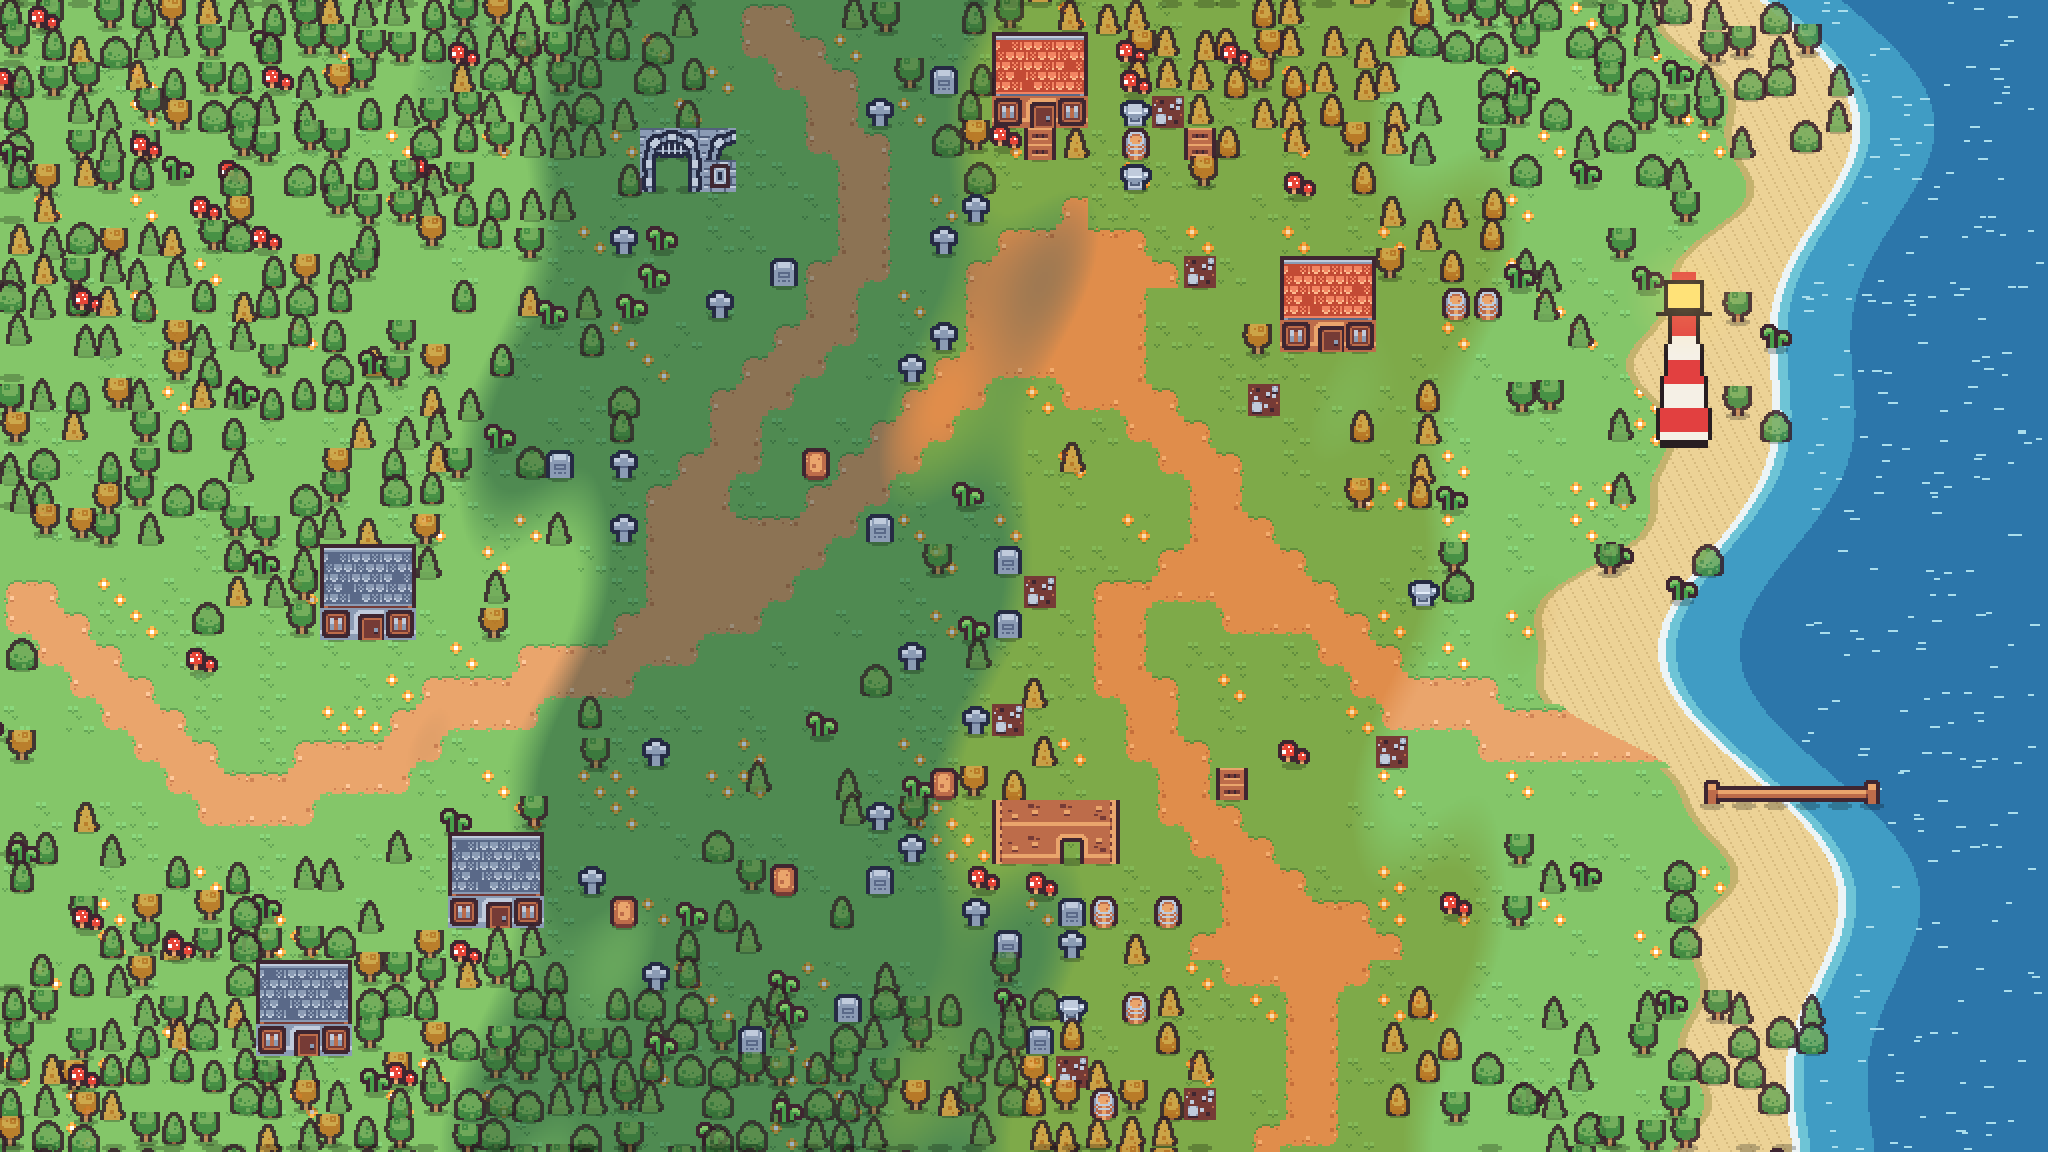
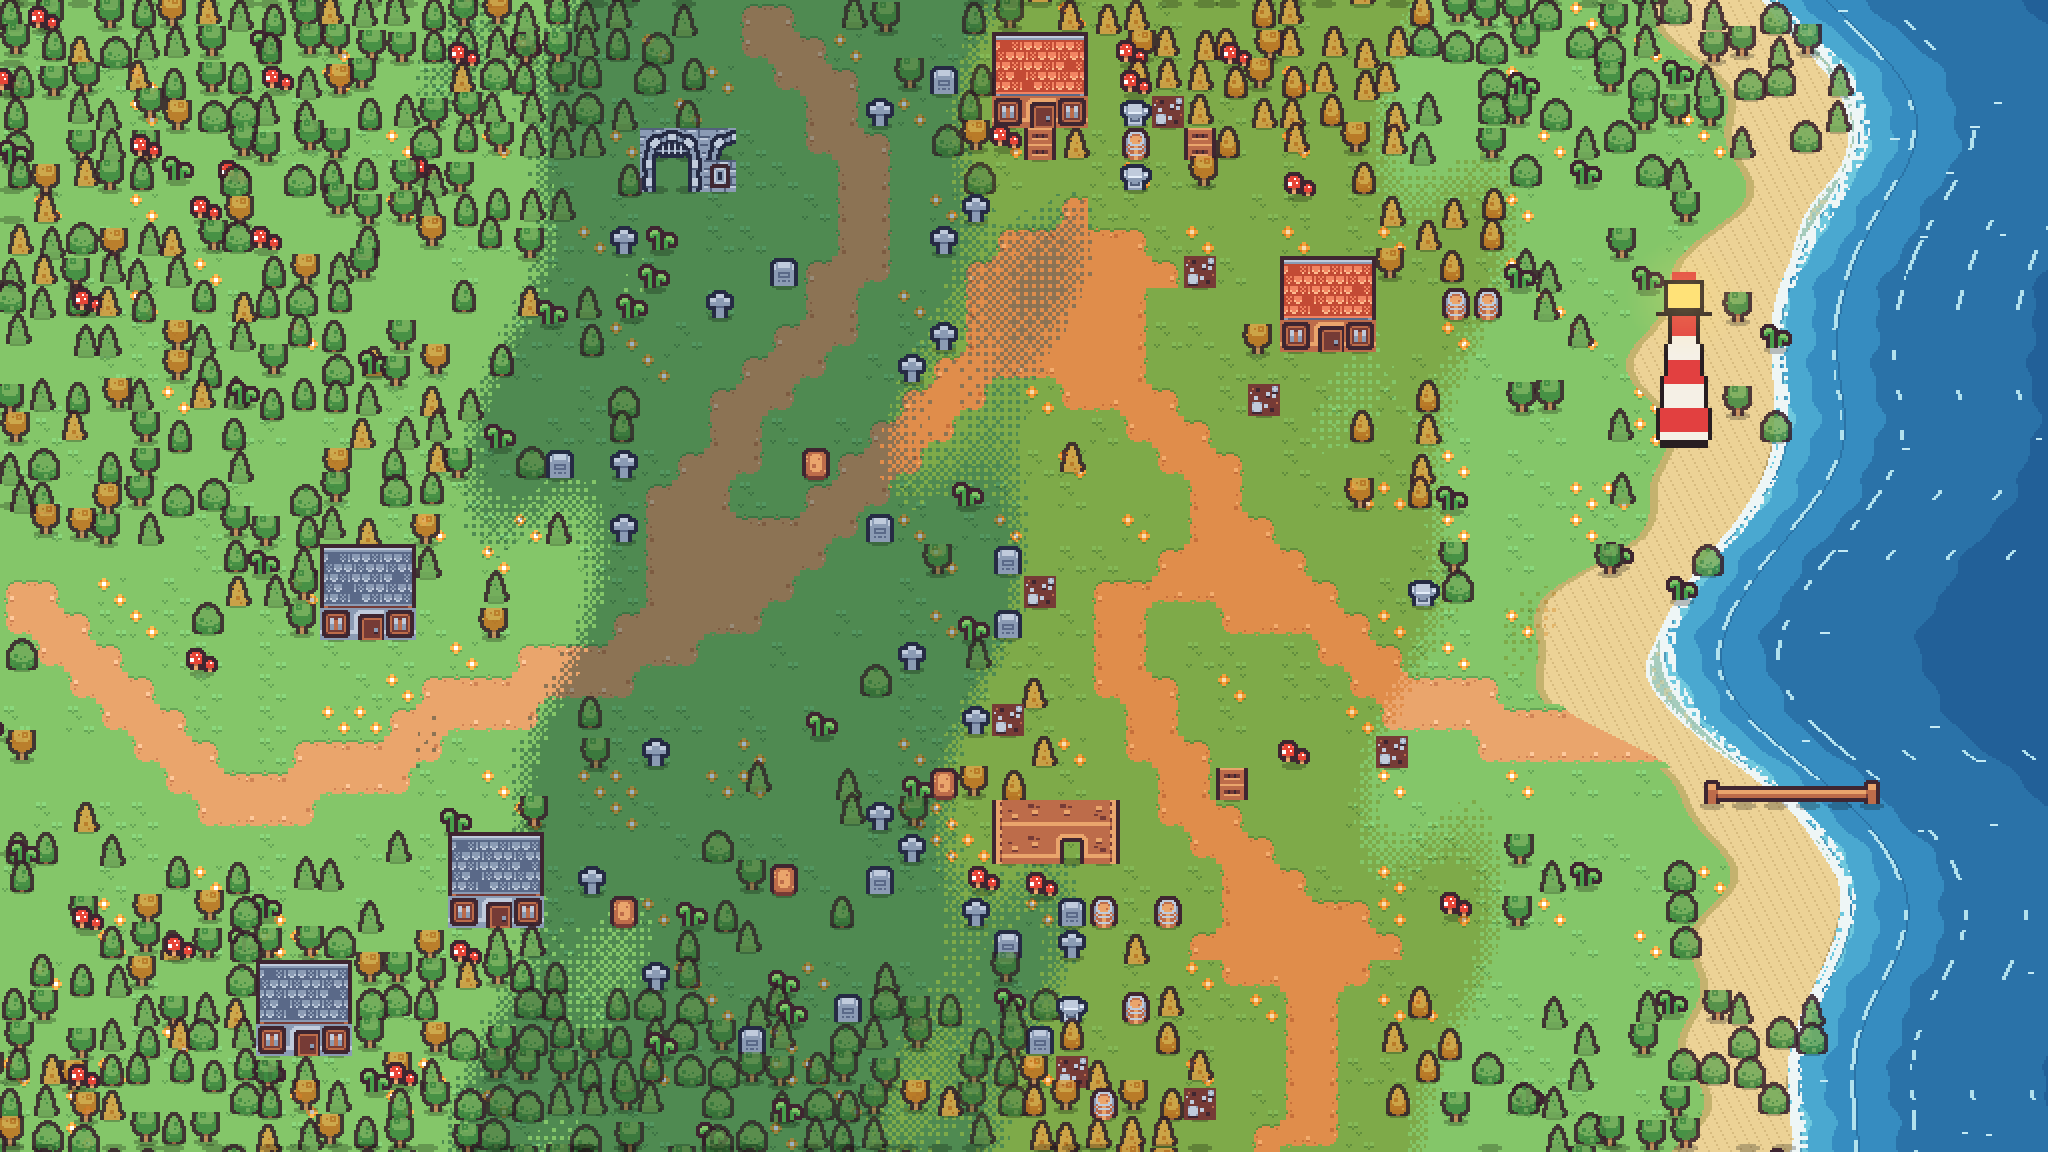
Mapa-Múndi: mar com ondas animadas quebrando na praia e transição dos biomas sem borrão

diff --git a/dataquest/app/globals.css b/dataquest/app/globals.css
@@ -1200,6 +1200,22 @@ a:hover > .hub-place .hub-card { border-color: rgba(var(--tint), 0.55); transfor
   from { transform: translate(-50%, -50%) scale(1); }
   to   { transform: translate(-50%, -50%) scale(1.035); }
 }
+/* Ondas do Mapa-Múndi: folha de 24 quadros gerada por scripts/gerar_mundo_biomas.py.
+   A faixa começa em x = 808 de 1024 px da imagem (78,90625%) e vai até a borda direita. */
+.world-sea {
+  position: absolute;
+  left: 78.90625%;
+  top: 0;
+  width: 21.09375%;
+  height: 100%;
+  background: url(/assets/bg/mapa-mar.png) 0 0 / 2400% 100% no-repeat;
+  image-rendering: pixelated;
+  animation: world-sea 3.6s steps(24, jump-none) infinite;
+}
+@keyframes world-sea {
+  from { background-position: 0 0; }
+  to   { background-position: 100% 0; }
+}
 .region-particle {
   position: absolute;
   opacity: 0;
@@ -1295,7 +1311,7 @@ a:hover > .hub-place .hub-card { border-color: rgba(var(--tint), 0.55); transfor
   50%      { opacity: 0.9; transform: scale(1); }
 }
 @media (prefers-reduced-motion: reduce) {
-  .region-scene, .region-particle, .crypt-mist, .forge-heat, .lighthouse-beam::before, .lighthouse-beam::after { animation: none; }
+  .region-scene, .world-sea, .region-particle, .crypt-mist, .forge-heat, .lighthouse-beam::before, .lighthouse-beam::after { animation: none; }
   .region-particle { display: none; }
 }
 

diff --git a/dataquest/components/ui/WorldBackground.tsx b/dataquest/components/ui/WorldBackground.tsx
@@ -40,6 +40,8 @@ export default function WorldBackground({ region }: { region?: Track }) {
           className="absolute inset-0"
           style={{ backgroundImage: `url(${src})`, backgroundSize: "100% 100%", imageRendering: "pixelated" }}
         />
+        {/* mar do reino: 24 quadros (mapa-mar.png) só da faixa da água, colados por cima do mesmo lugar da imagem */}
+        {!region && <span className="world-sea" />}
         {region === "dataviz" && (
           <span className="lighthouse-beam" style={{ left: `${LIGHTHOUSE.x}%`, top: `${LIGHTHOUSE.y}%` }} />
         )}

diff --git a/dataquest/scripts/gerar_mundo_biomas.py b/dataquest/scripts/gerar_mundo_biomas.py
@@ -77,47 +77,103 @@ for y in range(H):
         col = 0 if not lf else (2 if not rt else 1)
         img.alpha_composite(town([[12, 13, 14], [24, 25, 26], [36, 37, 38]][row][col]), (x * 16, y * 16))
 
-# ── Mar pintado em pixel: azul em faixas, espuma na praia, brilhos ──
+# ── Areia (estática). A água é pintada depois, em quadros: ver paint_sea ──
 px = img.load()
 for y in range(PH):
     sx = shore_x(y / 16) * 16
     sand_in = sx - 56 - 10 * math.sin(y / 23.0) - 6 * math.sin(y / 9.0)
-    for x in range(max(0, int(sand_in)), min(PW, int(sx))):
+    for x in range(max(0, int(sand_in)), min(PW, int(sx) + 1)):
         if path[y // 16][x // 16] and x < sand_in + 6: continue
         n = (x * 7 + y * 13) % 11
         c = (236, 210, 150, 255) if n else (214, 186, 126, 255)
         if x - sand_in < 3: c = (196, 178, 110, 255)  # borda grama/areia
         px[x, y] = c
-    for x in range(int(sx), PW):
-        d = x - sx
-        if d < 3: c = (236, 244, 246, 255)
-        elif d < 8: c = (110, 196, 214, 255)
-        elif d < 40: c = (64, 156, 196, 255)
-        else: c = (44, 118, 170, 255)
-        px[x, y] = c
-for _ in range(260):  # ondinhas
+# brilhos do mar: as mesmas posições sorteadas das antigas "ondinhas", agora piscando em quadros diferentes
+GLINTS = []
+for _ in range(260):
     x = random.randint(int(0.88 * PW), PW - 6); y = random.randint(0, PH - 1)
     if x > shore_x(y / 16) * 16 + 10:
-        for k in range(random.choice([3, 4, 5])): px[x + k, y] = (170, 222, 236, 255)
+        GLINTS.append((x, y, random.choice([3, 4, 5])))
 
 # ── Tons de bioma (cemitério mais frio e escuro, forja mais quente) ──
+# A transição é pontilhada (dither de Bayer em blocos de 2 px), e não um degradê liso:
+# o degradê borrava a pixel art e parecia uma mancha.
 TINTS = [(1, 1, 1), (0.60, 0.70, 0.78), (0.96, 0.86, 0.70), (1, 1, 1)]
 BLEND = 0.035  # largura da transição (fração da largura)
-def tint_at(fx):
-    m = [0.0, 0.0, 0.0]
+BAYER = [[0, 8, 2, 10], [12, 4, 14, 6], [3, 11, 1, 9], [15, 7, 13, 5]]
+def tint_at(fx, x, y):
+    th = (BAYER[(y // 2) % 4][(x // 2) % 4] + 0.5) / 16
+    acc = 0.0
     for i in range(4):
         lo = BOUNDS[i - 1] if i else -9
         hi = BOUNDS[i] if i < 3 else 9
-        w = max(0.0, min(1.0, (fx - lo) / BLEND + 0.5)) * max(0.0, min(1.0, (hi - fx) / BLEND + 0.5))
-        for k in range(3): m[k] += w * TINTS[i][k]
-    return m
+        acc += max(0.0, min(1.0, (fx - lo) / BLEND + 0.5)) * max(0.0, min(1.0, (hi - fx) / BLEND + 0.5))
+        if th < acc: return TINTS[i]
+    return TINTS[3]
 for y in range(PH):
     for x in range(PW):
+        m = tint_at(biome_fx(x / 16, y / 16), x, y)
+        if m == (1, 1, 1): continue
         r, g, bl, a = px[x, y]
-        if bl > r and bl > 150: continue  # mar
-        m = tint_at(biome_fx(x / 16, y / 16))
-        if m == [1, 1, 1]: continue
         px[x, y] = (min(255, int(r * m[0])), min(255, int(g * m[1])), min(255, int(bl * m[2])), a)
+GROUND = img.copy()  # chão + estrada + areia, sem água e sem objetos
+
+# ── Mar animado: ondas chegando em linhas paralelas à praia, quebrando em espuma, subindo a areia e voltando ──
+# t vai de 0 a 1 e o ciclo fecha (o quadro t=1 é igual ao t=0). Em t=0 a crista chega na linha da praia.
+FRAMES = 24
+WAVE = 30  # distância entre as cristas, em px
+def h01(x, y):  # ruído fixo (não muda entre quadros)
+    v = (x * 73856093) ^ (y * 19349663) ^ 0x5bd1e995
+    v = (v ^ (v >> 13)) * 0x2545F491 & 0xffffffff
+    return (v & 0xffff) / 65535
+def runup_max(y): return 10 + 3 * math.sin(y / 17.0) + 2 * math.sin(y / 7.3)
+def sea_from(y):  # onde começa a área que muda entre quadros (água + areia molhada)
+    return int(shore_x(y / 16) * 16 - runup_max(y) - 3)
+def mix(a, b, k): return tuple(int(a[i] + (b[i] - a[i]) * k) for i in range(3)) + (255,)
+DEEP2, DEEP, MID, SHALLOW, CLEAR = (34, 96, 152), (42, 114, 168), (54, 140, 192), (74, 168, 208), (110, 200, 222)
+FOAM, CREST = (238, 246, 246, 255), (178, 226, 238, 255)
+
+def paint_sea(px, t, ground):
+    for y in range(PH):
+        sx = shore_x(y / 16) * 16
+        R = runup_max(y)
+        u = (t + 0.07 * math.sin(y / 45.0) + 0.03 * math.sin(y / 13.0)) % 1.0  # a onda bate em diagonal, não toda de uma vez
+        # quanto a água sobe na areia (rápido) e volta (devagar), e a marca molhada que fica
+        if u < 0.2: run = R * math.sin(u / 0.2 * math.pi / 2); wet = run
+        elif u < 0.65: run = R * (1 + math.cos(math.pi * (u - 0.2) / 0.45)) / 2; wet = max(run, R * (1 - (u - 0.2) / 0.75))
+        else: run = 0; wet = max(0.0, R * (1 - (u - 0.2) / 0.75))
+        jit = 2 * math.sin(y / 7.0) + 1.5 * math.sin(y / 3.1)
+        for x in range(sea_from(y), PW):
+            d = x - sx
+            if d < 0:  # areia
+                if d >= -run:
+                    edge = d + run
+                    if edge < 1.6 or (edge < 3.5 and h01(x, y // 2) < 0.45): px[x, y] = FOAM  # borda de espuma rendada
+                    else: px[x, y] = mix(ground[x, y], CLEAR, 0.55 if h01(x // 2, y // 2) < 0.8 else 0.3)
+                elif d >= -wet:
+                    g = ground[x, y]; px[x, y] = (int(g[0] * 0.8), int(g[1] * 0.78), int(g[2] * 0.72), 255)
+                else:
+                    px[x, y] = ground[x, y]
+                continue
+            dj = d + jit
+            c = CLEAR if dj < 7 else SHALLOW if dj < 20 else MID if dj < 52 else DEEP if dj < 130 else DEEP2
+            # cristas: andam em direção à praia; longe são tracinhos soltos, perto viram uma linha inteira de espuma
+            f = (d / WAVE + u) % 1.0
+            thick = (2.0 if d > 12 else 3.5) / WAVE
+            if f < thick:
+                show = 0.85 - min(d, 90) / 90 * 0.7
+                if h01(0, y // 5) < show or d < 10:
+                    c = FOAM[:3] if d < 14 else CREST[:3]
+            elif f < thick + 1.0 / WAVE and d < 40:
+                c = mix(c, (20, 70, 120), 0.35)[:3]  # sombrinha na frente da crista
+            # espuma fixa na beira, que cresce quando a onda quebra
+            fw = 2.5 + (5 if (u > 0.92 or u < 0.12) else 0)
+            if d < fw and h01(x // 2, y // 2 + int(t * FRAMES)) < (0.9 if d < 2 else 0.55): c = FOAM[:3]
+            px[x, y] = c + (255,)
+    k = int(round(t * FRAMES))
+    for i, (gx, gy, gl) in enumerate(GLINTS):  # brilhos: cada um aparece em 2 de cada 24 quadros
+        if (k - i * 7) % FRAMES < 2:
+            for j in range(gl): px[gx + j, gy] = (196, 234, 244, 255)
 
 # ── Objetos: lista (x_px, y_px, tile), desenhados por y para sobrepor direito ──
 objs = []
@@ -235,14 +291,35 @@ shadow = Image.new("RGBA", (12, 4), (0, 0, 0, 0)); sp = shadow.load()
 for x in range(12):
     for y in range(4):
         if (x - 5.5) ** 2 / 36 + (y - 1.5) ** 2 / 4 <= 1: sp[x, y] = (0, 0, 0, 60)
-for x, y, t, layer in objs:
-    if layer == 0 and t.width == 16:
-        img.alpha_composite(shadow, (max(0, x + 2), max(0, min(PH - 4, y + 13))))
-    # recorta o que sai da imagem (árvores da borda ficam pela metade só FORA da tela, não no meio do mapa)
-    cx, cy = max(0, -x), max(0, -y)
-    cw, ch = min(t.width, PW - x), min(t.height, PH - y)
-    if cw > cx and ch > cy:
-        img.alpha_composite(t.crop((cx, cy, cw, ch)), (max(0, x), max(0, y)))
+def draw_objects(im, xmin=0):
+    for x, y, t, layer in objs:
+        if x + t.width + 2 <= xmin: continue
+        if layer == 0 and t.width == 16:
+            im.alpha_composite(shadow, (max(0, x + 2), max(0, min(PH - 4, y + 13))))
+        # recorta o que sai da imagem (árvores da borda ficam pela metade só FORA da tela, não no meio do mapa)
+        cx, cy = max(0, -x), max(0, -y)
+        cw, ch = min(t.width, PW - x), min(t.height, PH - y)
+        if cw > cx and ch > cy:
+            im.alpha_composite(t.crop((cx, cy, cw, ch)), (max(0, x), max(0, y)))
 
+# imagem fixa = quadro 0 (é o que aparece sem animação)
+paint_sea(img.load(), 0.0, GROUND.load())
+draw_objects(img)
 img.resize((PW * 2, PH * 2), Image.NEAREST).convert("RGB").save(OUT, optimize=True)
 print("ok", OUT)
+
+# folha de quadros do mar: só a faixa que muda (água + areia molhada); o resto é transparente
+if len(sys.argv) > 4:
+    X0 = min(sea_from(y) for y in range(PH)) // 8 * 8
+    sheet = Image.new("RGBA", ((PW - X0) * FRAMES, PH), (0, 0, 0, 0))
+    gp = GROUND.load()
+    for f in range(FRAMES):
+        fr = GROUND.copy()
+        paint_sea(fr.load(), f / FRAMES, gp)
+        draw_objects(fr, X0)
+        crop = fr.crop((X0, 0, PW, PH)); cp = crop.load()
+        for y in range(PH):
+            for x in range(sea_from(y) - X0): cp[x, y] = (0, 0, 0, 0)
+        sheet.paste(crop, (f * (PW - X0), 0))
+    sheet.save(sys.argv[4], optimize=True)
+    print("ok", sys.argv[4], f"{FRAMES} quadros de {PW - X0}x{PH}, começa em x={X0} de {PW} ({X0 / PW * 100:.4f}%)")

diff --git a/dataquest/CLAUDE.md b/dataquest/CLAUDE.md
@@ -527,6 +527,13 @@ e a 3ª sala da Masmorra; XP conferido no servidor e tela de perfil. Mobile cont
   clara); capturas das 4 regiões, das arenas, da masmorra com 3 salas, da trilha SQL e do perfil; `tsc` e `build` ok.
 - ⚠ O dev server do Modo Teste continuou servindo o CSS antigo mesmo reiniciado: foi preciso apagar `.next`.
 - ⚠ No Bash daqui, `\b` dentro de heredoc vira o caractere backspace: scripts Python que editam regex vão em arquivo (Write).
+- **Mar do Mapa-Múndi com ondas (mesmo dia):** `scripts/gerar_mundo_biomas.py` agora pinta a água em quadros
+  (`paint_sea(px, t, ground)`): faixas de profundidade, cristas andando até a praia (tracinhos longe, linha de espuma
+  perto), a onda quebra, sobe na areia, deixa a marca molhada e volta; brilhos piscando. O 4º argumento gera
+  `public/assets/bg/mapa-mar.png` (24 quadros de 216×576, transparente fora da faixa da água), colado pelo
+  `.world-sea` do `WorldBackground` em `left: 78.90625%` (x = 808 de 1024), `steps(24, jump-none)` em 3,6 s.
+  Se mudar a costa, o script imprime o novo x: ajustar `left`/`width` no CSS. A transição entre biomas virou dither
+  de Bayer em blocos de 2 px (o degradê liso borrava a pixel art). A imagem fixa é o quadro 0.
 
 ### Sessão 19 — Fases novas, Masmorra Secreta e poderes das raças (2026-10-26)
 Pedido do usuário: "mais fases é essencial"; fases bônus de Python com animação épica; raças com efeito real e visual.

diff --git a/dataquest/public/assets/CREDITS.md b/dataquest/public/assets/CREDITS.md
@@ -23,7 +23,8 @@ Licença CC0 1.0 (https://creativecommons.org/publicdomain/zero/1.0/). Atribuiç
 O reino em 4 biomas (floresta, cemitério, forja e costa com farol), gerado por `scripts/gerar_mundo_biomas.py` a partir
 dos tiles Kenney **Tiny Town** e **Tiny Dungeon** (https://kenney.nl/assets/tiny-town e /tiny-dungeon, CC0 1.0).
 O mar, a areia e o farol são pixel art própria do script. Para gerar de novo: baixar e extrair os dois zips e rodar
-`python scripts/gerar_mundo_biomas.py <pasta tiny-town> <pasta tiny-dungeon> public/assets/bg/mapa-mundo.png`.
+`python scripts/gerar_mundo_biomas.py <pasta tiny-town> <pasta tiny-dungeon> public/assets/bg/mapa-mundo.png public/assets/bg/mapa-mar.png`
+(o 4º argumento gera `bg/mapa-mar.png`, os 24 quadros das ondas animadas).
 (O gerador antigo, `scripts/gerar_fundo_mapa.py`, fazia uma vila só, com Tiny Town.)
 
 ## Fundos das regiões (`bg/regiao-*.png`) — CC0
